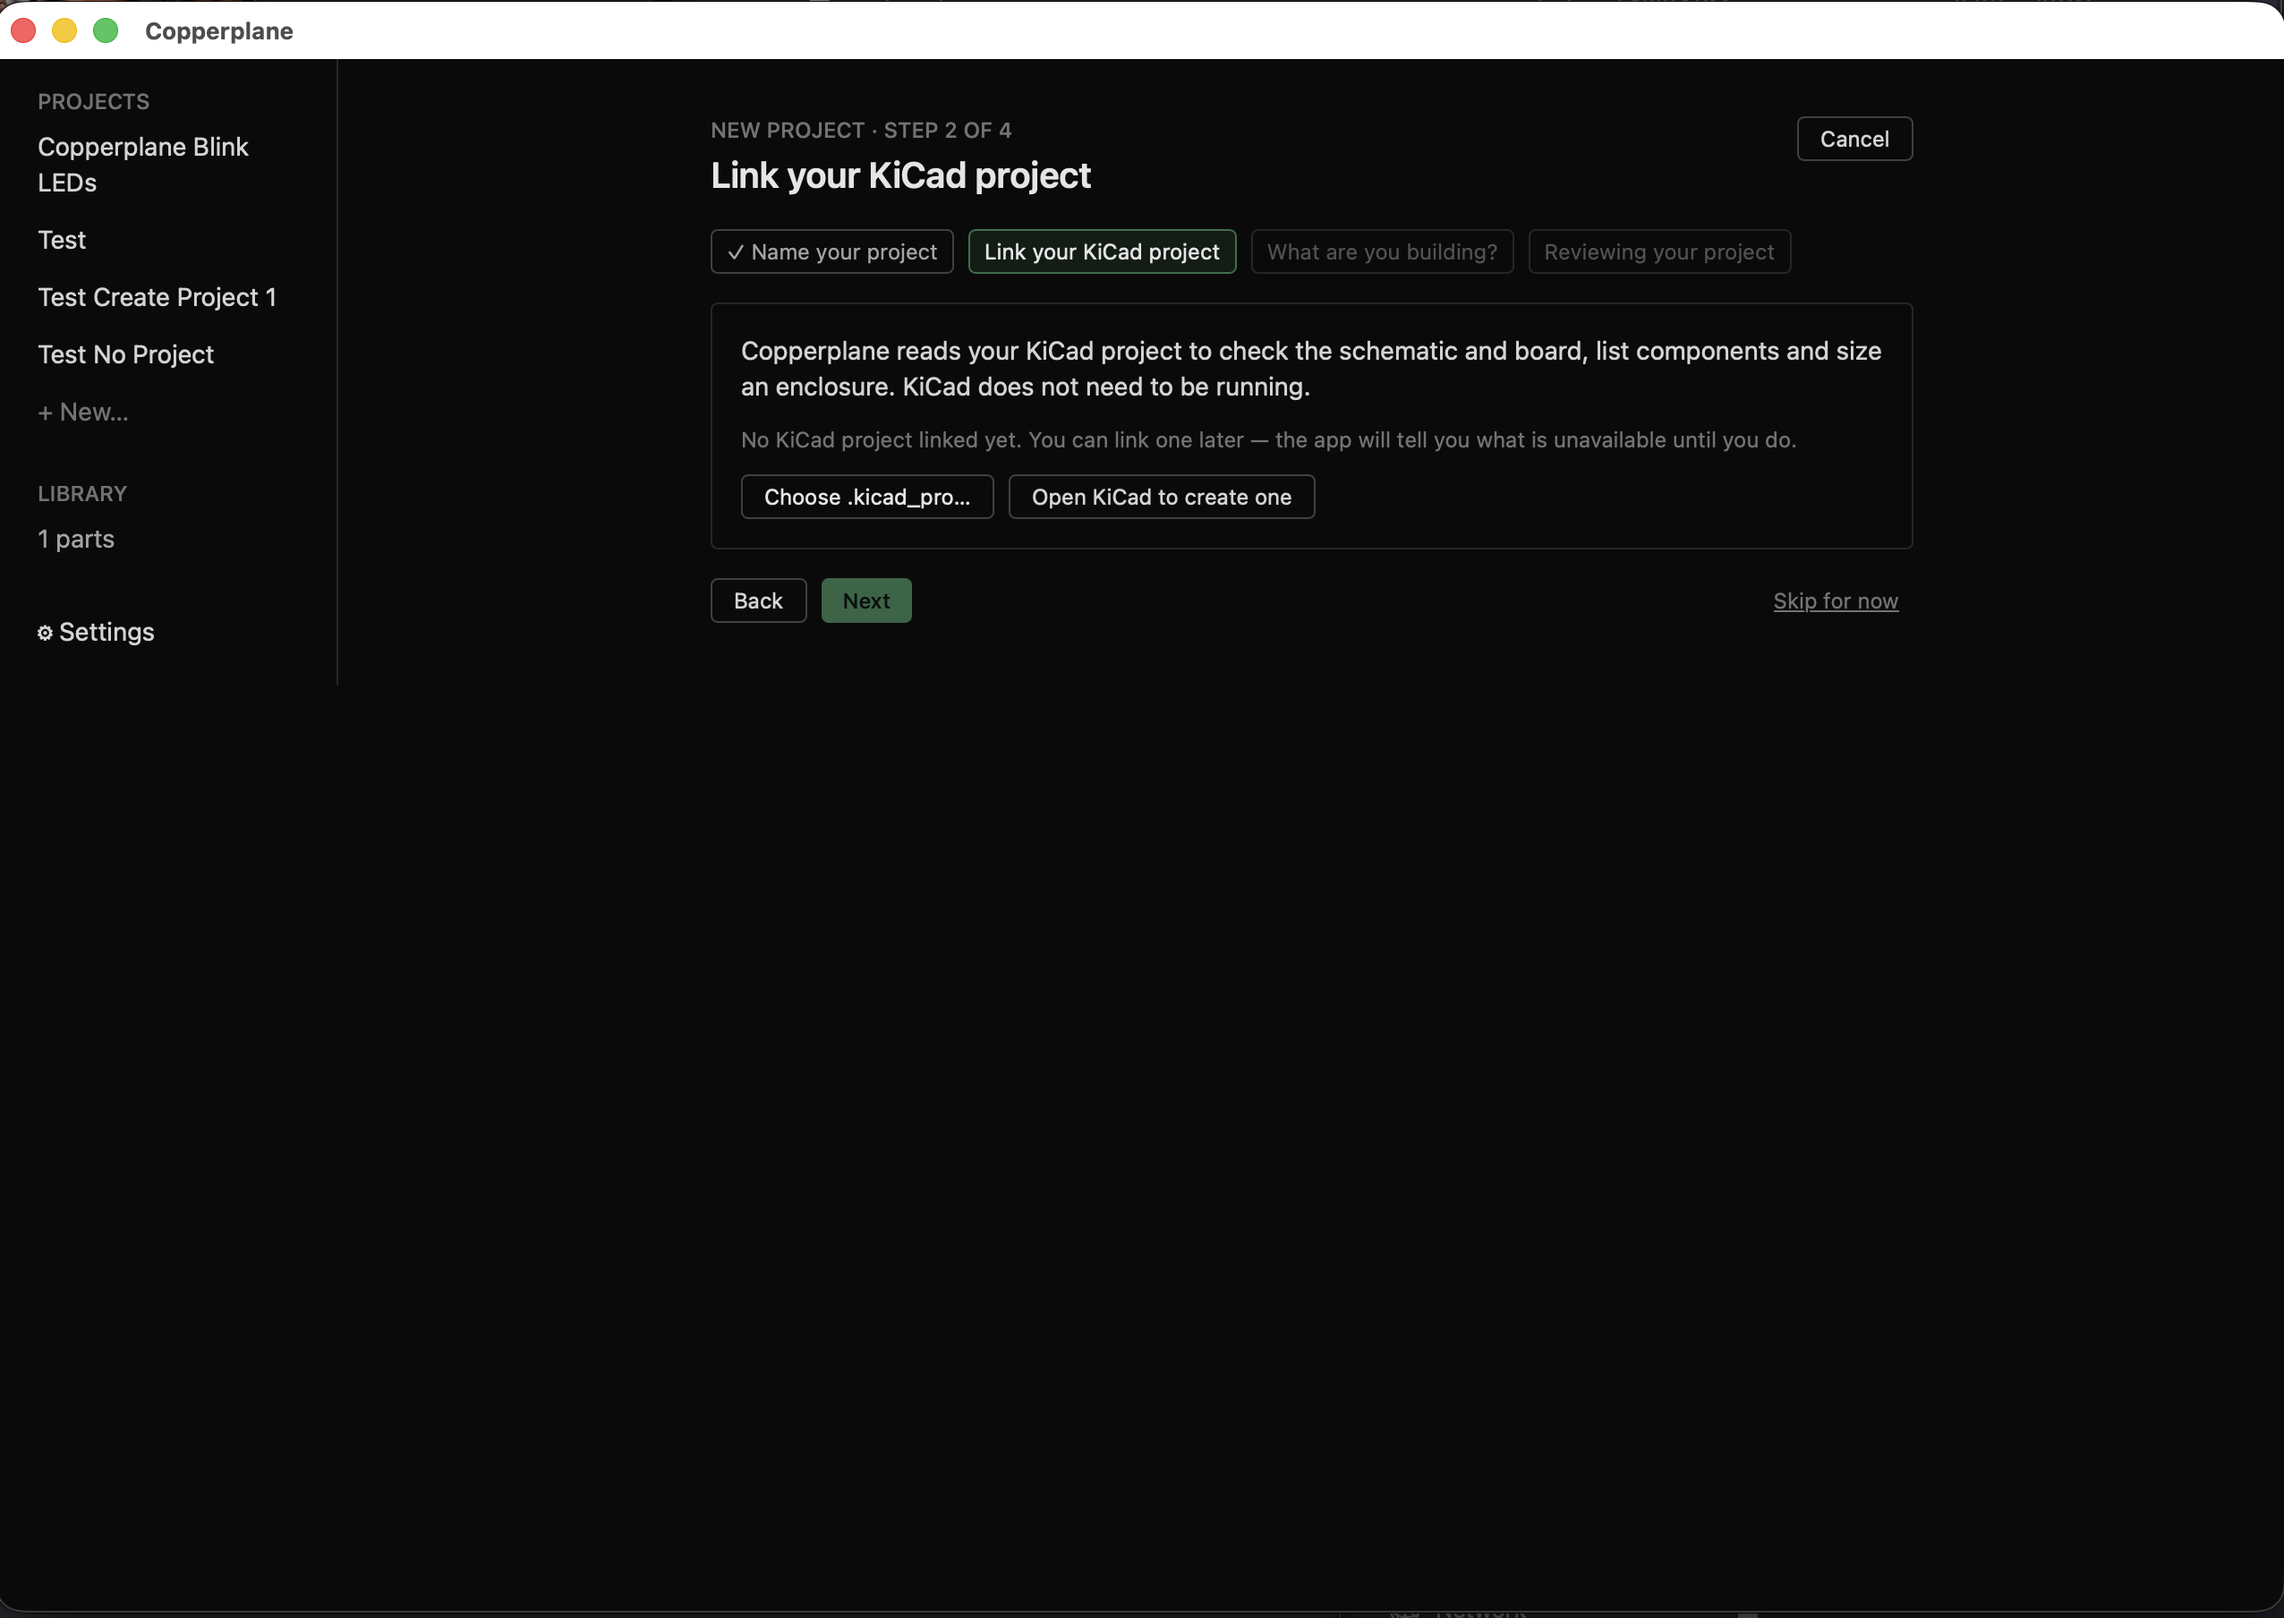
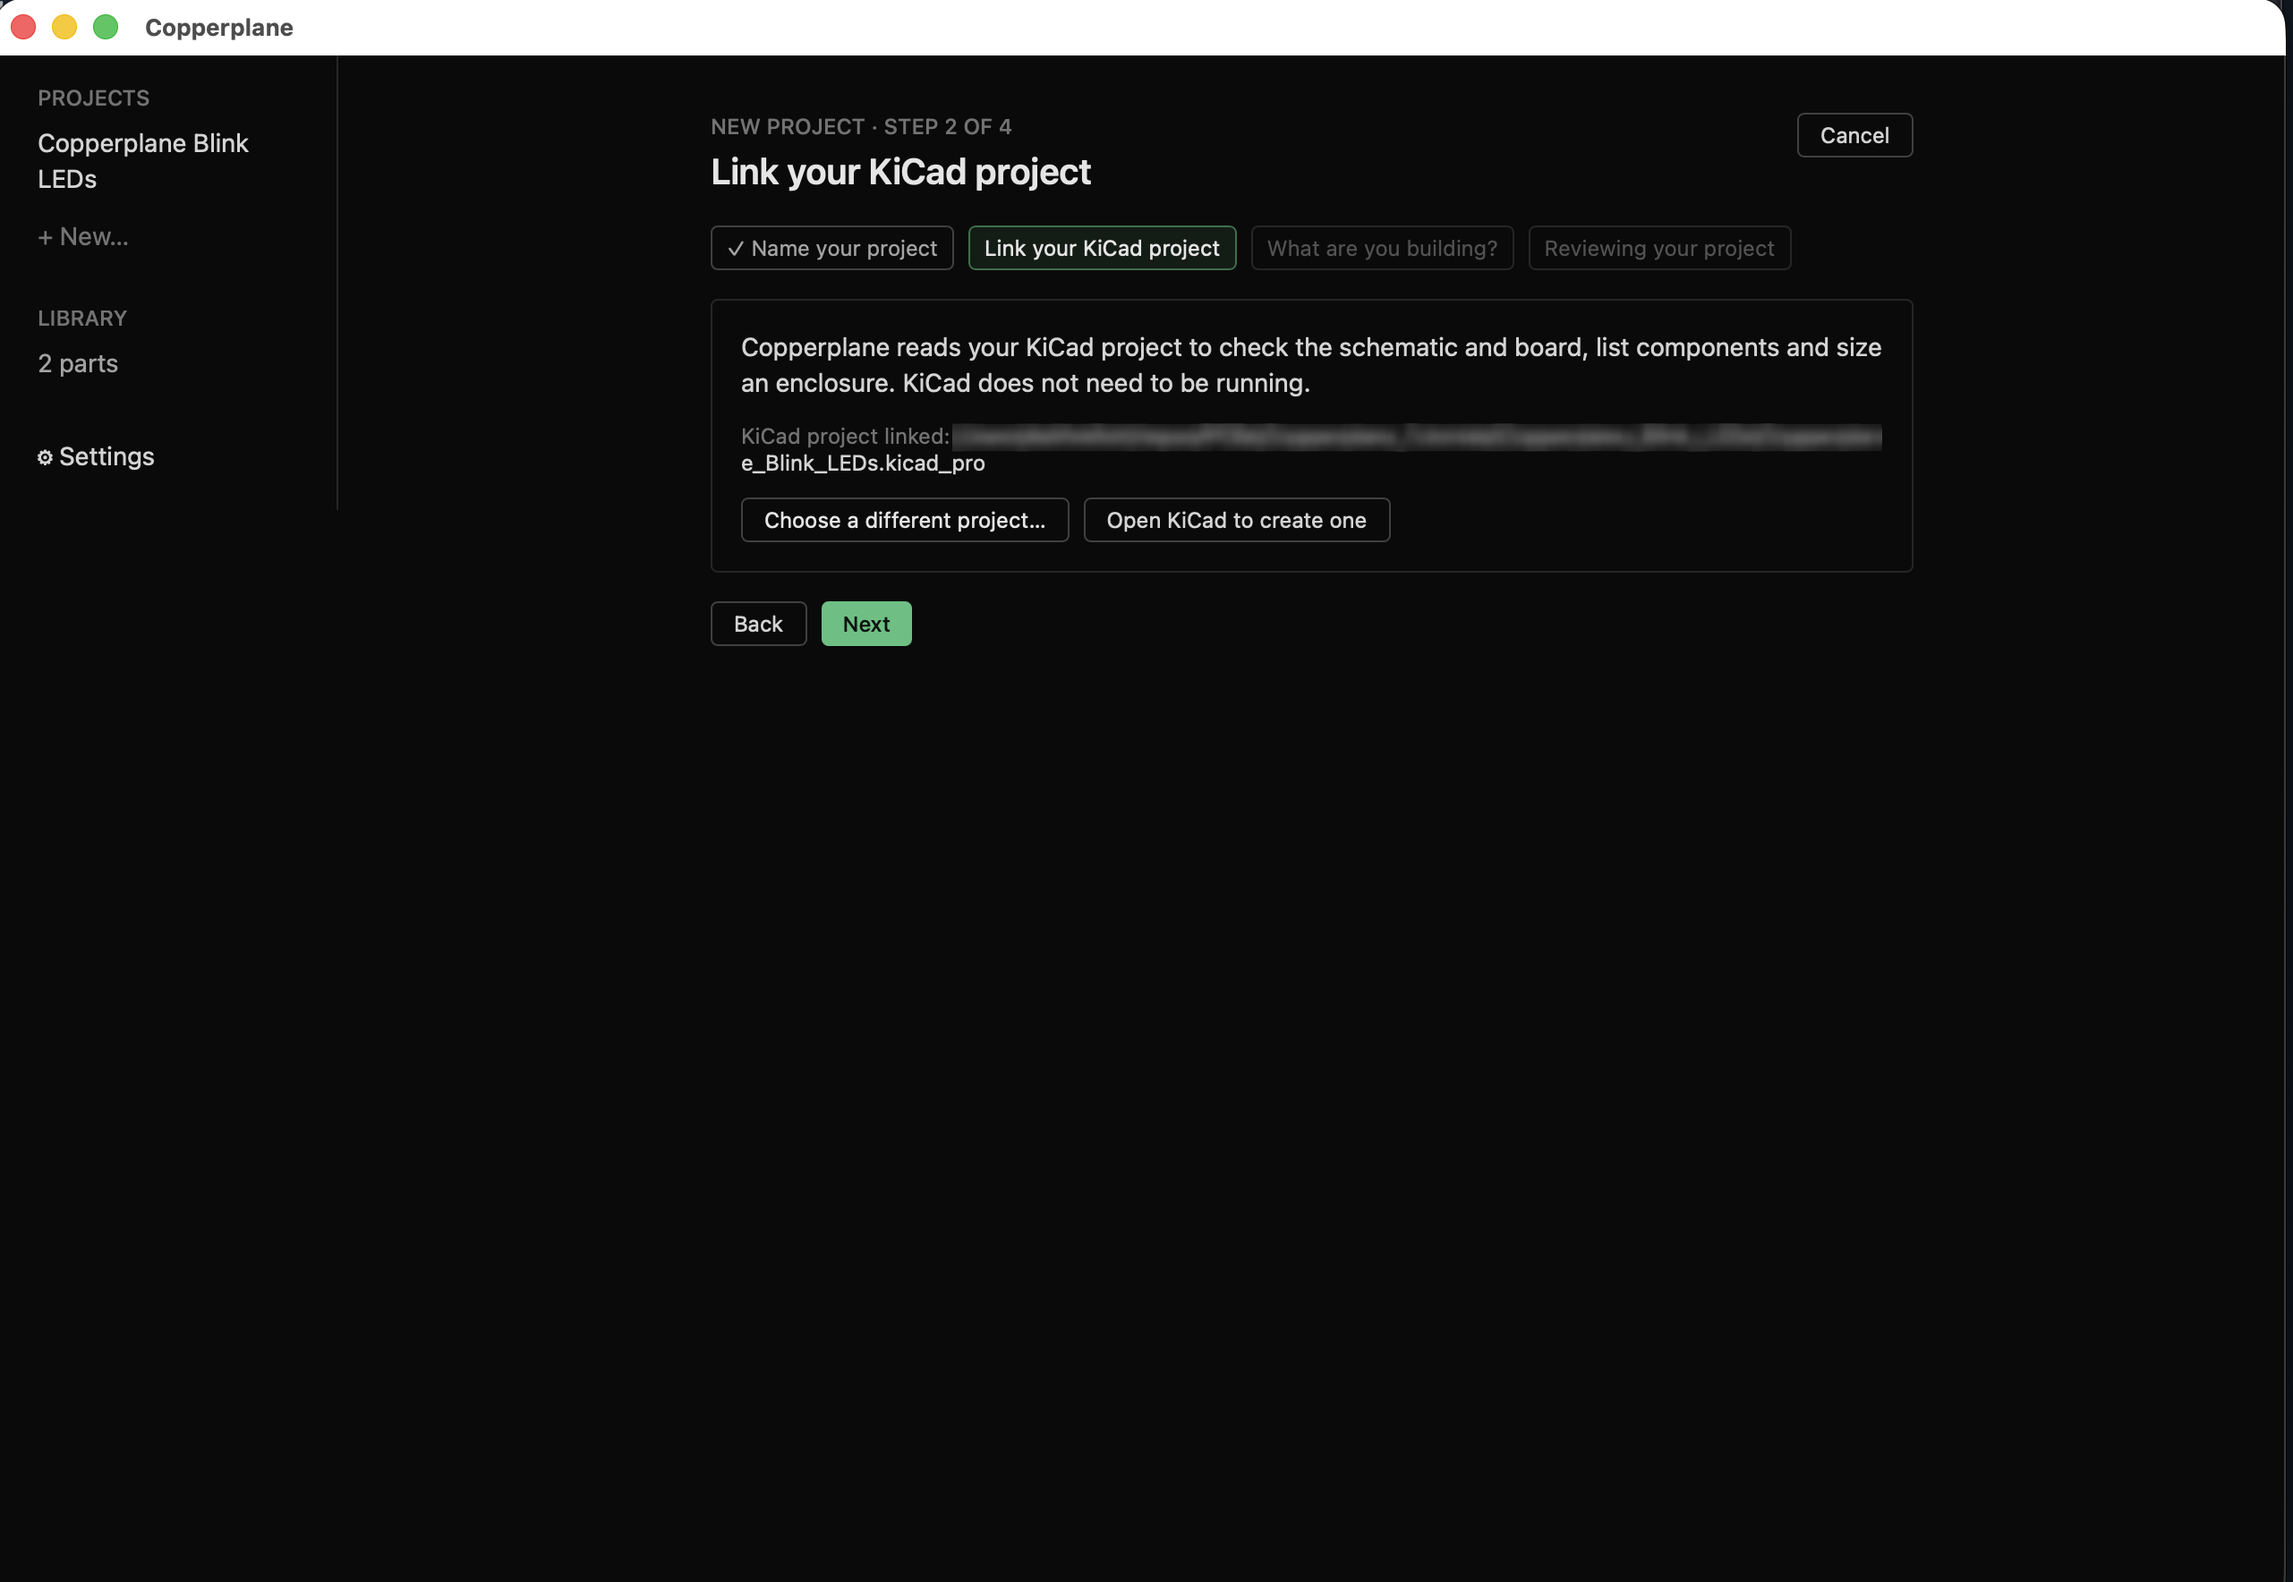
docs(CTX-408.4): every documentation slot is filled with a real screenshot
Seventeen images, all dark, all from the tutorial project with the rail
finally clean -- the scratch projects that were in nine of the earlier
captures are gone.

The onboarding slots are done, which needed the maintainer to reset
onboarding to reach: the welcome screen with the mark and no rail, both
guided-setup steps, and the launch view. first-run.md's three pending markers
are now real images.

Two additions worth having that were not on the list. The wizard's own check
pass -- schematic and board agreeing, the component count, ERC and DRC counts,
all before the user has asked for anything -- goes in the tutorial where the
project gets linked. And the enclosure 3D preview, which was overlooked
entirely and is the payoff of the whole enclosure section.

The 3D preview raised a question worth answering rather than hiding: the
Arduino and the switch are not drawn. Both reference a KiCad 3D model and
neither .step file ships in KiCad's macOS package -- verified by resolving the
paths -- so there is nothing to draw. That is also why the height reads "6
still unknown": 14.1mm comes from D1, the tallest part that could actually be
measured, and the app says the real minimum may be taller rather than treating
an unmeasurable part as flat. The tutorial and the enclosure guide both say so.

One capture rejected: the Components tab with an empty search field, no
results, and a leftover NE555 as the only project part, contradicting the eight
components the wizard had just counted.

diff --git a/docs/site/SCREENSHOTS.md b/docs/site/SCREENSHOTS.md
@@ -58,49 +58,44 @@ know about** -- check those yourself.
 Raw captures are gitignored wherever they land. The chosen ones get cropped
 into `docs/site/public/images/`.
 
-## Already placed
+## All slots are filled
 
-| File | Source | Notes |
-| :--- | :--- | :--- |
-| `hero.png` | tutorial capture | The Schematic tab on the real project, full window |
-| `board-check.png` | tutorial capture | The DRC result list with its findings |
-| `schematic-erc.png` | tutorial capture | ERC after the two `PWR_FLAG` symbols were removed |
-| `ask-the-agent.png` | tutorial capture | The agent answering the tutorial's own D1 question, sources visible |
-| `design-guidance.png` | tutorial capture | Guidance with expandable citations |
-| `new-project.png` | tutorial capture | Linking a KiCad project |
-| `component-search.png` | tutorial capture | Ranked candidates with confidence |
-| `settings.png` | first walkthrough | Whole Settings surface, keys only as "configured" |
-| `part-detail.png` | first walkthrough | RGB LED footprint card with the abbreviations box |
-| `schematic-check.png` | first walkthrough | Schematic tab, board components, detected `.kicad_sch` |
-| `board-check-explained.png` | first walkthrough | DRC rewritten in plain English |
-| `enclosure.png` | first walkthrough | Enclosure form with the measured 14.1mm hint |
+Fifteen images, every one dark, every one from the tutorial project with a clean rail.
 
-## Two things to fix before these are final
-
-**Scratch projects are in the rail on 9 of 24 captures**, `hero.png` included: `Test`,
-`Test Create Project 1`, `Test No Project`, and a second `Blink LED Tutorial` beside the real
-`Copperplane Blink LEDs`. It reads as a developer's machine rather than a product. Removing them
-("Remove from list") and re-shooting the affected screens is the fix; nothing else can reach it,
-because the rail is in the pixels.
-
-**One project is named inconsistently.** `board-check.png` shows `Blink LED Tutorial` while the
-tutorial prose and every other shot say `Copperplane Blink LEDs`. A reader following along will
-notice.
-
-Both are cosmetic and neither blocks publishing. They are the difference between "screenshots of
-the app" and "screenshots of the product".
-
-## Still needed, all dark
-
-Five slots remain, all of them onboarding, which needs `onboarding_completed` reset to reach:
-
-| File | What must be visible |
+| File | Shows |
 | :--- | :--- |
-| `welcome.png` | The welcome screen: the mark, both paths, **no rail** |
-| `guided-provider.png` | Guided setup step 1, choosing a provider, before a key is typed |
-| `guided-tools.png` | Guided setup showing KiCad and FreeCAD detected, with their real paths |
-| `no-project.png` | The launch view with no project selected, showing the mark |
-| `library.png` | The library with a few real parts |
+| `hero.png` | The Overview tab: the KiCad link, the plain-English build description, the ask box |
+| `welcome.png` | First launch: the mark, both paths, no rail |
+| `guided-provider.png` | Guided setup step 1, provider chosen, key field empty |
+| `guided-tools.png` | Guided setup step 2, KiCad and FreeCAD found with their real paths |
+| `no-project.png` | The launch view with nothing selected |
+| `new-project.png` | The wizard linking a `.kicad_pro` |
+| `new-project-review.png` | The wizard's own check pass -- parity, component count, ERC and DRC counts |
+| `schematic-check.png` | Board components with per-part 3D-model status |
+| `schematic-erc.png` | ERC after the two `PWR_FLAG` symbols were removed |
+| `board-check.png` | The DRC result list |
+| `board-check-explained.png` | DRC rewritten in plain English |
+| `ask-the-agent.png` | The agent answering the tutorial's own D1 question, sources visible |
+| `component-search.png` | Ranked candidates with confidence |
+| `part-detail.png` | A footprint card with the abbreviations box |
+| `design-guidance.png` | Guidance with expandable citations |
+| `enclosure.png` | The generation form with the measured height hint |
+| `enclosure-3d.png` | The generated enclosure with the board seated inside |
 
-`first-run.md` carries `<!-- screenshot pending -->` markers where the first three go, so the
-guard stays green and the gap stays visible.
+## One capture was rejected
+
+The Components tab shot (23:11:19) shows an empty search field, no results, and a leftover
+NE555 as the only project part -- which contradicts the eight components the wizard had just
+counted. It demonstrates nothing about searching. The earlier `component-search.png`, with five
+ranked candidates, is kept instead.
+
+## Known and deliberate
+
+`guided-provider.png` reads "A provider is already configured (anthropic, google, perplexity)",
+which a genuinely fresh install would never show. The key field is empty and nothing is exposed.
+Reshoot only if the wording bothers you; the screen itself is the one a new user sees.
+
+The enclosure 3D preview does not draw the Arduino or the switch. Both *reference* a KiCad 3D
+model and neither `.step` file is in KiCad's macOS package, so there is nothing to draw. The
+tutorial and the enclosure guide both say so rather than leaving a reader to wonder -- and it is
+the same reason the height summary reads "6 still unknown".

diff --git a/docs/site/src/content/docs/first-run.md b/docs/site/src/content/docs/first-run.md
@@ -6,7 +6,7 @@ description: What Copperplane asks you on first launch, the three ways past it, 
 The first time you open Copperplane it asks for one thing: an AI provider. Nothing
 else is required to get going, and you can decline even that and look around.
 
-<!-- screenshot pending: welcome.png -- see docs/site/SCREENSHOTS.md -->
+![The welcome screen](/copperplane/images/welcome.png)
 
 Three ways forward, and none of them is wrong.
 
@@ -16,7 +16,7 @@ Two steps, about a minute.
 
 **Step 1 — an AI provider.** Pick one from the list, paste a key, and continue.
 
-<!-- screenshot pending: guided-provider.png -- see docs/site/SCREENSHOTS.md -->
+![Choosing a provider](/copperplane/images/guided-provider.png)
 
 You are paying the provider directly, not us. The key goes into your operating
 system's keychain, never into a config file — see [Privacy and your
@@ -31,7 +31,7 @@ oddly.
 **Step 2 — KiCad and FreeCAD.** Copperplane looks for both and shows you what it
 found, with the real paths.
 
-<!-- screenshot pending: guided-tools.png -- see docs/site/SCREENSHOTS.md -->
+![KiCad and FreeCAD detected](/copperplane/images/guided-tools.png)
 
 Finding neither is not an error here. The button reads **Done** when both are
 present and **Continue anyway** when they are not, which is the honest thing for
@@ -60,6 +60,8 @@ or it will keep using the old value and look like it ignored you.
 Dismisses the question and drops you on the launch view. Nothing is configured
 and nothing is broken — you can open a project, read its components, and see what
 the app is before deciding whether to give it a key.
+
+![The launch view with nothing selected](/copperplane/images/no-project.png)
 
 The setup question does not come back. When you do want it, Settings has
 everything.

diff --git a/docs/site/src/content/docs/tutorials/blink-leds.md b/docs/site/src/content/docs/tutorials/blink-leds.md
@@ -28,6 +28,12 @@ In Copperplane, make a new project and point it at the `.kicad_pro` file.
 
 ![Linking a KiCad project to a new Copperplane project](/copperplane/images/new-project.png)
 
+The last step of the wizard checks the project as it links it — schematic and board
+agreeing, the component count, and what ERC and DRC already have to say. You have not
+asked for anything yet and it has already read the design.
+
+![The wizard's own check pass, before you have asked for anything](/copperplane/images/new-project-review.png)
+
 The rail on the left holds your projects, your parts library, and Settings.
 Across the top of a project sit five tabs — **Overview**, **Components**,
 **Schematic**, **PCB**, **Enclosure** — which is roughly the order you would work
@@ -145,6 +151,19 @@ taller. Generate, and you get a box sized to your actual board outline with the
 PCB seated inside it for a visual fit check.
 
 The mounting holes are the reason this is worth doing before you order anything.
+
+![The generated enclosure, with the board seated inside it](/copperplane/images/enclosure-3d.png)
+
+:::note[Why the Arduino is not in the picture]
+The preview draws the parts KiCad has 3D models for. On this board that is the RGB LED
+and the resistor — the switch and the Arduino module both *reference* a model in KiCad's
+library, and those two `.step` files are not in KiCad's macOS package, so there is nothing
+to draw.
+
+That is also why the height reads "6 still unknown". The 14.1 mm floor comes from D1,
+the tallest part Copperplane could actually measure, and the app says plainly that the
+real minimum may be taller rather than quietly treating an unmeasurable part as flat.
+:::
 
 ## What you have learned
 

diff --git a/docs/site/src/content/docs/guides/enclosure.md b/docs/site/src/content/docs/guides/enclosure.md
@@ -29,7 +29,13 @@ Adjustable: wall thickness, clearance around the board, standoff height. Change
 a value and regenerate against the same board; you are not starting over each
 time.
 
-![The generated enclosure in the 3D preview](/copperplane/images/enclosure.png)
+![Setting up an enclosure from the board](/copperplane/images/enclosure.png)
+
+![The generated enclosure with the board seated inside](/copperplane/images/enclosure-3d.png)
+
+The preview draws only the parts KiCad ships a 3D model for. A part with no model is
+still counted as present and still gets clearance — it just cannot be drawn, and the
+height summary says how many are in that state rather than assuming they are flat.
 
 Preview it in the 3D viewer with free orbit or camera presets, then export
 **STEP** for CAD or **GLB** for a mesh viewer.
